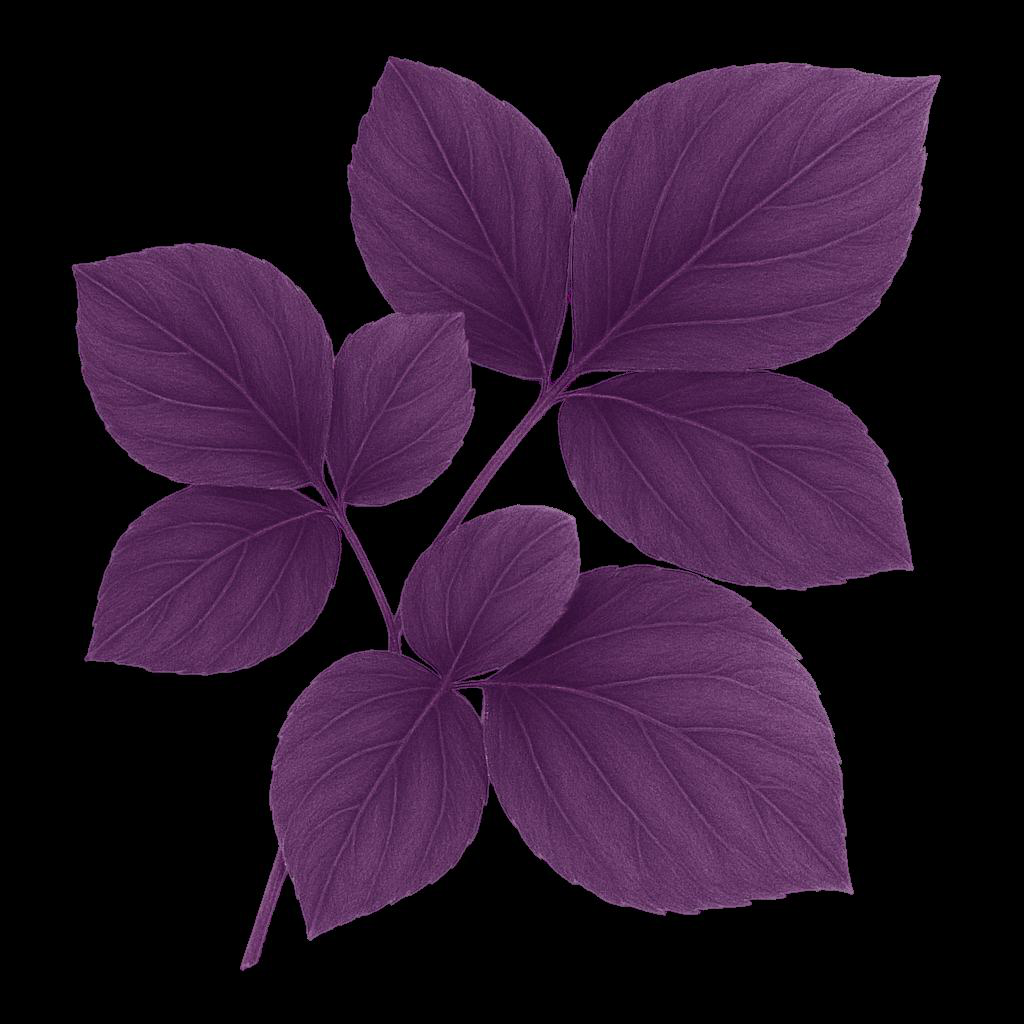
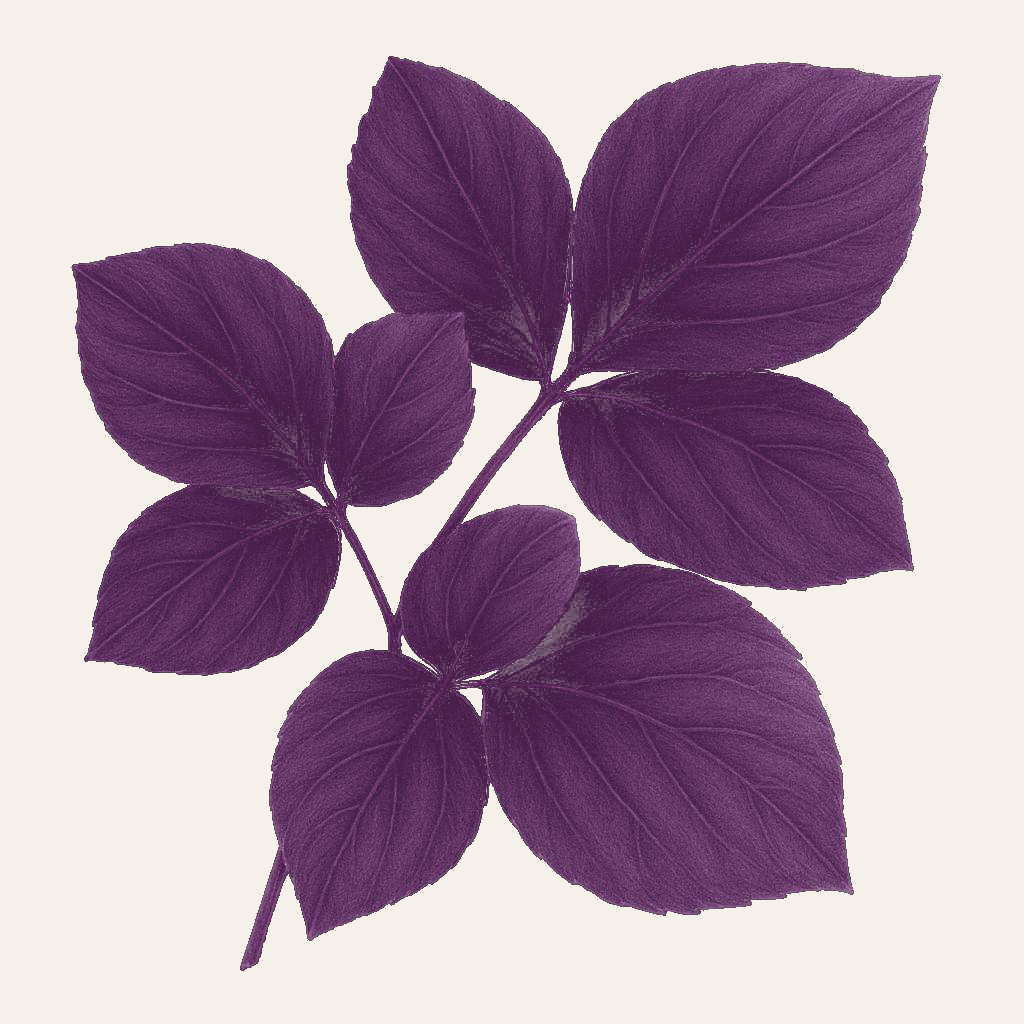
feat: vizualni jazyk PEGAS jako samostatna sekce 03 + cream pozadi misto cerneho na fialovych objektech

diff --git a/content/caseStudy.ts b/content/caseStudy.ts
@@ -52,12 +52,13 @@ export const caseStudy = {
   anchors: [
     { id: 'vysledek', label: '01 Výsledek' },
     { id: 'reserse', label: '02 Rešerše' },
-    { id: 'obraz', label: '03 Krize obrazu' },
-    { id: 'higgsfield', label: '04 Higgsfield' },
-    { id: 'hlas', label: '05 Hlas' },
-    { id: 'asistent', label: '06 Asistent' },
-    { id: 'vibecoding', label: '07 Vibecoding' },
-    { id: 'obchod', label: '08 Pro obchod' },
+    { id: 'jazyk', label: '03 Vizuální jazyk' },
+    { id: 'obraz', label: '04 Krize obrazu' },
+    { id: 'higgsfield', label: '05 Higgsfield' },
+    { id: 'hlas', label: '06 Hlas' },
+    { id: 'asistent', label: '07 Asistent' },
+    { id: 'vibecoding', label: '08 Vibecoding' },
+    { id: 'obchod', label: '09 Pro obchod' },
   ],
 
   // 01 — Výsledek
@@ -146,6 +147,17 @@ export const caseStudy = {
       { src: '/illustrations/06.png', alt: 'AI ilustrace 6' },
       { src: '/illustrations/07.png', alt: 'AI ilustrace 7' },
       { src: '/illustrations/08.png', alt: 'AI ilustrace 8' },
+    ] satisfies GalleryItem[],
+  },
+
+  // 03 — Vizuální jazyk PEGAS
+  visualLanguage: {
+    intro:
+      'S asistentem jsme postavili vizuální esenci značky: tichý symbol křídla místo celého koně, příroda místo symbolů oboru. Otevřený jazyk, který funguje napříč věkem, vírou i kontextem — bez klišé.',
+    gallery: [
+      { src: '/assistant/vize-01.png', alt: 'Křídlo — tichý symbol přítomnosti' },
+      { src: '/assistant/vize-02.png', alt: 'Příroda místo symbolů oboru — květ' },
+      { src: '/assistant/vize-03.png', alt: 'Příroda místo symbolů oboru — list' },
     ] satisfies GalleryItem[],
   },
 
@@ -249,16 +261,6 @@ export const caseStudy = {
         attribution: 'Nejsme ti, kdo mají pravdu. Jsme ti, kdo pomáhají najít klidný tvar tomu, co cítíte.',
       },
     ],
-    futureVision: {
-      title: 'Vizuální jazyk PEGAS',
-      description:
-        'S asistentem jsme postavili vizuální esenci značky: tichý symbol křídla místo celého koně, příroda místo symbolů oboru. Otevřený jazyk, který funguje napříč věkem, vírou i kontextem — bez klišé.',
-      gallery: [
-        { src: '/assistant/vize-01.png', alt: 'Křídlo — tichý symbol přítomnosti' },
-        { src: '/assistant/vize-02.png', alt: 'Příroda místo symbolů oboru — květ' },
-        { src: '/assistant/vize-03.png', alt: 'Příroda místo symbolů oboru — list' },
-      ] satisfies GalleryItem[],
-    },
   },
 
   // 08 — Vibecoding

diff --git a/components/sections/SectionVisualLanguage.tsx b/components/sections/SectionVisualLanguage.tsx
@@ -1,0 +1,32 @@
+import { caseStudy } from '@/content/caseStudy';
+import { Gallery } from '@/components/ui/Gallery';
+
+export const SectionVisualLanguage = () => {
+  const { visualLanguage } = caseStudy;
+
+  return (
+    <section id="jazyk" className="relative px-6 md:px-12 py-24 md:py-32 border-t border-line">
+      <div className="max-w-6xl mx-auto">
+        <div className="grid md:grid-cols-12 gap-10">
+          <div className="md:col-span-4">
+            <div className="text-sm uppercase tracking-[0.2em] text-muted mb-4">
+              03 · Vizuální jazyk
+            </div>
+            <h2 className="font-serif text-5xl md:text-6xl leading-[1.05]">
+              Tichý symbol
+              <br />
+              <em className="text-alovy not-italic">místo klišé</em>.
+            </h2>
+          </div>
+          <div className="md:col-span-7 md:col-start-6">
+            <p className="text-lg md:text-xl leading-relaxed">{visualLanguage.intro}</p>
+          </div>
+        </div>
+
+        <div className="mt-16 md:mt-20">
+          <Gallery items={visualLanguage.gallery} columns={3} aspect="landscape" />
+        </div>
+      </div>
+    </section>
+  );
+};

diff --git a/components/sections/SectionAssistant.tsx b/components/sections/SectionAssistant.tsx
@@ -12,7 +12,7 @@ export const SectionAssistant = () => {
         <div className="grid md:grid-cols-12 gap-10">
           <div className="md:col-span-4">
             <div className="text-sm uppercase tracking-[0.2em] text-muted mb-4">
-              06 · Asistent
+              07 · Asistent
             </div>
             <h2 className="font-serif text-5xl md:text-6xl leading-[1.05]">
               Custom ChatGPT,
@@ -91,22 +91,6 @@ export const SectionAssistant = () => {
             Ukázky konverzace
           </p>
           <Gallery items={assistant.screenshots} columns={3} aspect="portrait" />
-        </div>
-
-        <div className="mt-24 md:mt-28">
-          <div className="grid md:grid-cols-12 gap-10 mb-8">
-            <div className="md:col-span-4">
-              <h3 className="font-serif text-2xl md:text-3xl">
-                <span className="text-alovy">↦</span> {assistant.futureVision.title}
-              </h3>
-            </div>
-            <div className="md:col-span-7 md:col-start-6">
-              <p className="text-base md:text-lg leading-relaxed text-muted">
-                {assistant.futureVision.description}
-              </p>
-            </div>
-          </div>
-          <Gallery items={assistant.futureVision.gallery} columns={3} aspect="landscape" />
         </div>
       </div>
     </section>

diff --git a/app/page.tsx b/app/page.tsx
@@ -8,6 +8,7 @@ import { SectionResearch } from '@/components/sections/SectionResearch';
 import { SectionResult } from '@/components/sections/SectionResult';
 import { SectionSales } from '@/components/sections/SectionSales';
 import { SectionVibecoding } from '@/components/sections/SectionVibecoding';
+import { SectionVisualLanguage } from '@/components/sections/SectionVisualLanguage';
 import { SectionVoice } from '@/components/sections/SectionVoice';
 
 const Page = () => {
@@ -19,6 +20,7 @@ const Page = () => {
         <AnchorNav />
         <SectionResult />
         <SectionResearch />
+        <SectionVisualLanguage />
         <SectionImageCrisis />
         <SectionHiggsfield />
         <SectionVoice />

diff --git a/components/sections/SectionHiggsfield.tsx b/components/sections/SectionHiggsfield.tsx
@@ -11,7 +11,7 @@ export const SectionHiggsfield = () => {
         <div className="grid md:grid-cols-12 gap-10">
           <div className="md:col-span-4">
             <div className="text-sm uppercase tracking-[0.2em] text-muted mb-4">
-              04 · Higgsfield
+              05 · Higgsfield
             </div>
             <h2 className="font-serif text-5xl md:text-6xl leading-[1.05]">
               Z mobilu

diff --git a/components/sections/SectionImageCrisis.tsx b/components/sections/SectionImageCrisis.tsx
@@ -12,7 +12,7 @@ export const SectionImageCrisis = () => {
         <div className="grid md:grid-cols-12 gap-10">
           <div className="md:col-span-4">
             <div className="text-sm uppercase tracking-[0.2em] text-muted mb-4">
-              03 · Krize obrazu
+              04 · Krize obrazu
             </div>
             <h2 className="font-serif text-5xl md:text-6xl leading-[1.05]">
               Stockové banky

diff --git a/components/sections/SectionSales.tsx b/components/sections/SectionSales.tsx
@@ -9,7 +9,7 @@ export const SectionSales = () => {
         <div className="grid md:grid-cols-12 gap-10">
           <div className="md:col-span-4">
             <div className="text-sm uppercase tracking-[0.2em] text-muted mb-4">
-              08 · Pro obchod
+              09 · Pro obchod
             </div>
             <h2 className="font-serif text-5xl md:text-6xl leading-[1.05]">
               Tohle umíme

diff --git a/components/sections/SectionVibecoding.tsx b/components/sections/SectionVibecoding.tsx
@@ -10,7 +10,7 @@ export const SectionVibecoding = () => {
         <div className="grid md:grid-cols-12 gap-10">
           <div className="md:col-span-4">
             <div className="text-sm uppercase tracking-[0.2em] text-muted mb-4">
-              07 · Vibecoding
+              08 · Vibecoding
             </div>
             <h2 className="font-serif text-5xl md:text-6xl leading-[1.05]">
               Features za <em className="text-alovy not-italic">dny</em>

diff --git a/components/sections/SectionVoice.tsx b/components/sections/SectionVoice.tsx
@@ -33,7 +33,7 @@ export const SectionVoice = () => {
         <div className="grid md:grid-cols-12 gap-10">
           <div className="md:col-span-4">
             <div className="text-sm uppercase tracking-[0.2em] text-muted mb-4">
-              05 · Hlas
+              06 · Hlas
             </div>
             <h2 className="font-serif text-5xl md:text-6xl leading-[1.05]">
               Nemluvíme dokola,